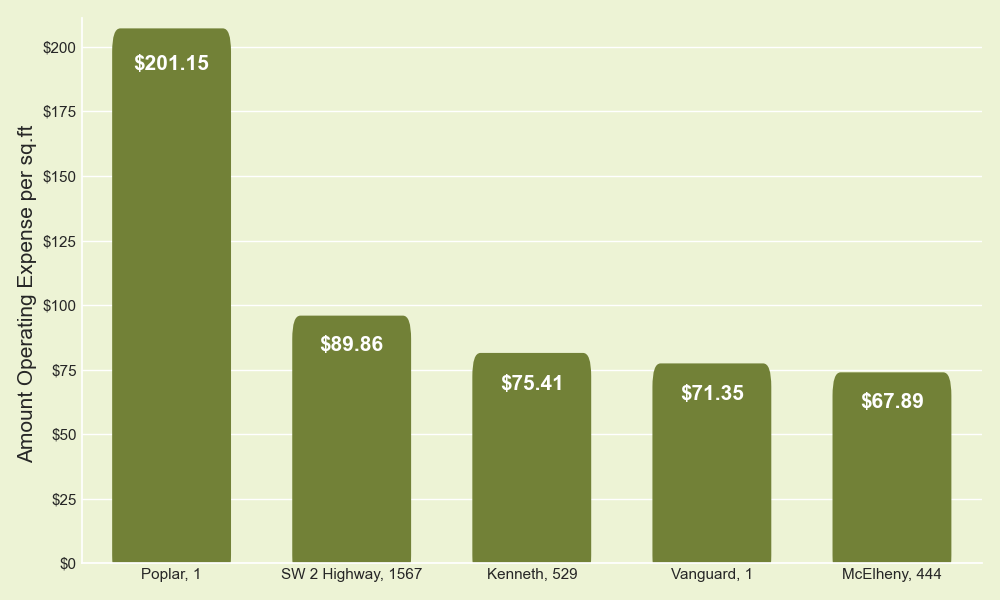
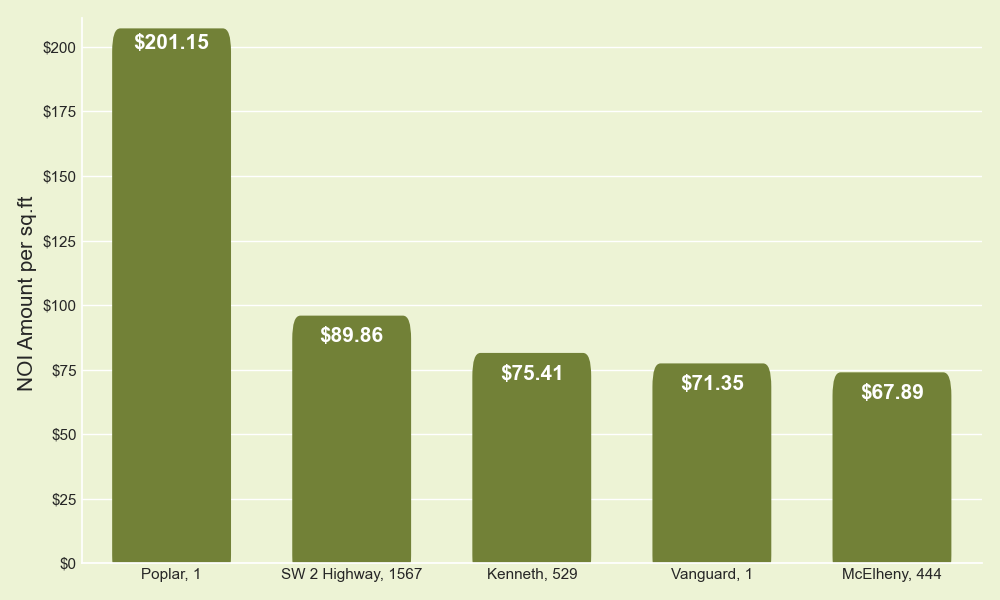
previous code berfore pecent

diff --git a/main_dev.py b/main_dev.py
@@ -7,6 +7,9 @@ from matplotlib.patches import FancyBboxPatch
 import seaborn as sns
 from datetime import datetime, timedelta,date
 import pandas as pd
+import plotly.graph_objects as go
+import math
+
 
 def fetch_data():
     try:
@@ -114,69 +117,71 @@ def top_5plot():
 
 
 
-    #
-    # x_axis = final_sq_2022.sort_values(by=['NOI_persq'],ascending = False)[:5]['propertyname'].to_list()
-    # y_axis = final_sq_2022.sort_values(by=['NOI_persq'],ascending = False)[:5]['NOI_persq'].to_list()
-    #
-    # sns.set(rc={'axes.facecolor': '#EDF3D5', 'figure.facecolor': '#EDF3D5'})
-    # ax = sns.barplot(x=x_axis, y=y_axis, joinstyle='bevel')
-    # ax.figure.set_size_inches(10, 6)
-    # ax.set_ylabel('NOI Amount per sq.ft ', size=15)
-    #
-    #
-    # def currency(x, pos):
-    #     """The two args are the value and tick position"""
-    #     if x >= 1e6:
-    #         s = '${:1.1f}M'.format(x * 1e-6)
-    #     elif x >= 1e3:
-    #         s = '${:1.0f}K'.format(x * 1e-3)
-    #     else:
-    #         s = '${:1.0f}'.format(x)
-    #     return s
-    #
-    # def change_width(ax, new_value):
-    #     for patch in ax.patches:
-    #         current_width = patch.get_width()
-    #         diff = current_width - new_value
-    #
-    #         # we change the bar width
-    #         patch.set_width(new_value)
-    #
-    #         # we recenter the bar
-    #         patch.set_x(patch.get_x() + diff * .5)
-    #
-    # change_width(ax, 0.6)
-    #
-    # new_patches = []
-    # mut_Aspect = max(y_axis)
-    #
-    # for patch in reversed(ax.patches):
-    #     bb = patch.get_bbox()
-    #
-    #     p_bbox = FancyBboxPatch((bb.xmin, bb.ymin),
-    #                             abs(bb.width), abs(bb.height),
-    #                             boxstyle="round, pad=0.030,rounding_size = 0.045",
-    #                             ec="none", fc='#728137',
-    #                             mutation_aspect=mut_Aspect
-    #                             )
-    #     patch.remove()
-    #     new_patches.append(p_bbox)
-    #
-    # for patch in new_patches:
-    #     ax.add_patch(patch)
-    #
-    # sns.despine(top=True, right=True)
-    #
-    # ax.tick_params(axis=u'both', which=u'both', length=0)
-    # for index, value in enumerate(y_axis):
-    #     plt.text(index, value // 1.02, '$' + str(value), fontsize=15, ha='center', va='top',
-    #              color='white', weight='bold')
-    #
-    # plt.ticklabel_format(style='plain', axis='y')
-    # plt.rcParams["font.family"] = "Open Sans"
-    # ax.yaxis.set_major_formatter(currency)
-    # plt.tight_layout()
-    # plt.savefig("top5_exp_Persqft.png")
+
+    x_axis = final_sq_2022.sort_values(by=['NOI_persq'],ascending = False)[:5]['propertyname'].to_list()
+    y_axis = final_sq_2022.sort_values(by=['NOI_persq'],ascending = False)[:5]['NOI_persq'].to_list()
+
+    sns.set(rc={'axes.facecolor': '#EDF3D5', 'figure.facecolor': '#EDF3D5'})
+    ax = sns.barplot(x=x_axis, y=y_axis, joinstyle='bevel')
+    ax.figure.set_size_inches(10, 6)
+    ax.set_ylabel('NOI Amount per sq.ft ', size=15)
+
+
+    def currency(x, pos):
+        """The two args are the value and tick position"""
+        if x >= 1e6:
+            s = '${:1.1f}M'.format(x * 1e-6)
+        elif x >= 1e3:
+            s = '${:1.0f}K'.format(x * 1e-3)
+        else:
+            s = '${:1.0f}'.format(x)
+        return s
+
+    def change_width(ax, new_value):
+        for patch in ax.patches:
+            current_width = patch.get_width()
+            diff = current_width - new_value
+
+            # we change the bar width
+            patch.set_width(new_value)
+
+            # we recenter the bar
+            patch.set_x(patch.get_x() + diff * .5)
+
+    change_width(ax, 0.6)
+
+    new_patches = []
+    mut_Aspect = max(y_axis)
+
+    for patch in reversed(ax.patches):
+        bb = patch.get_bbox()
+
+        p_bbox = FancyBboxPatch((bb.xmin, bb.ymin),
+                                abs(bb.width), abs(bb.height),
+                                boxstyle="round, pad=0.030,rounding_size = 0.045",
+                                ec="none", fc='#728137',
+                                mutation_aspect=mut_Aspect
+                                )
+        patch.remove()
+        new_patches.append(p_bbox)
+
+    for patch in new_patches:
+        ax.add_patch(patch)
+
+    sns.despine(top=True, right=True)
+
+    ax.tick_params(axis=u'both', which=u'both', length=0)
+    for index, value in enumerate(y_axis):
+        plt.text(index, value * 1.02, '$' + str(value), fontsize=15, ha='center', va='top',
+                 color='white', weight='bold')
+
+    plt.ticklabel_format(style='plain', axis='y')
+    plt.rcParams["font.family"] = "Open Sans"
+    ax.yaxis.set_major_formatter(currency)
+    plt.tight_layout()
+    plt.savefig("top5_exp_Persqft.png")
+
+    
 
 # def comp_YTM():
 #     current_first_date,last_day_of_prev_month,previous_first_date,previous_date = getdata_range_YTM()
